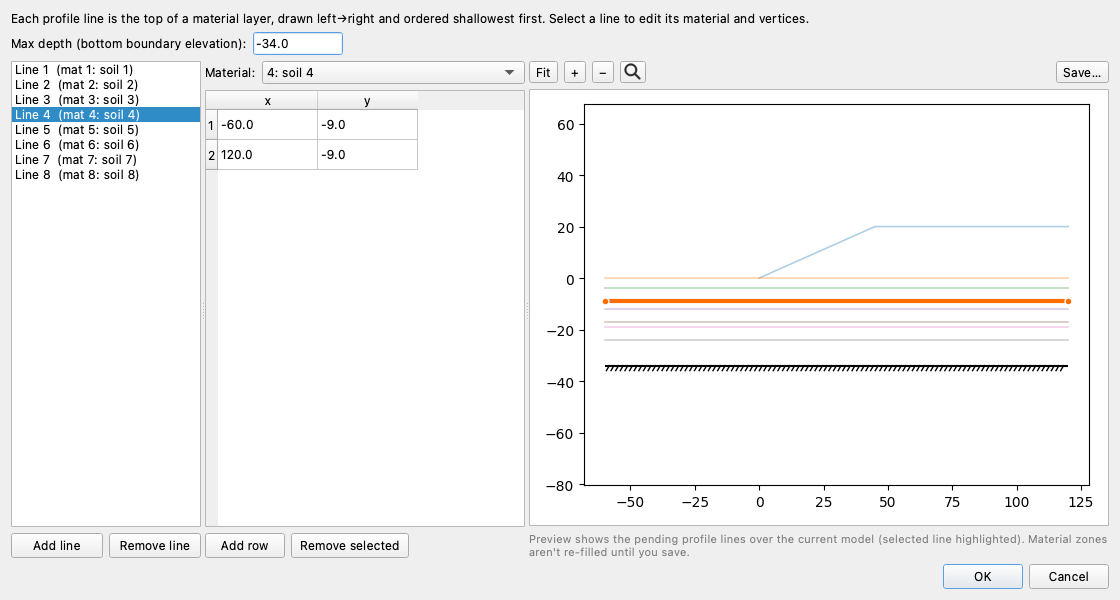
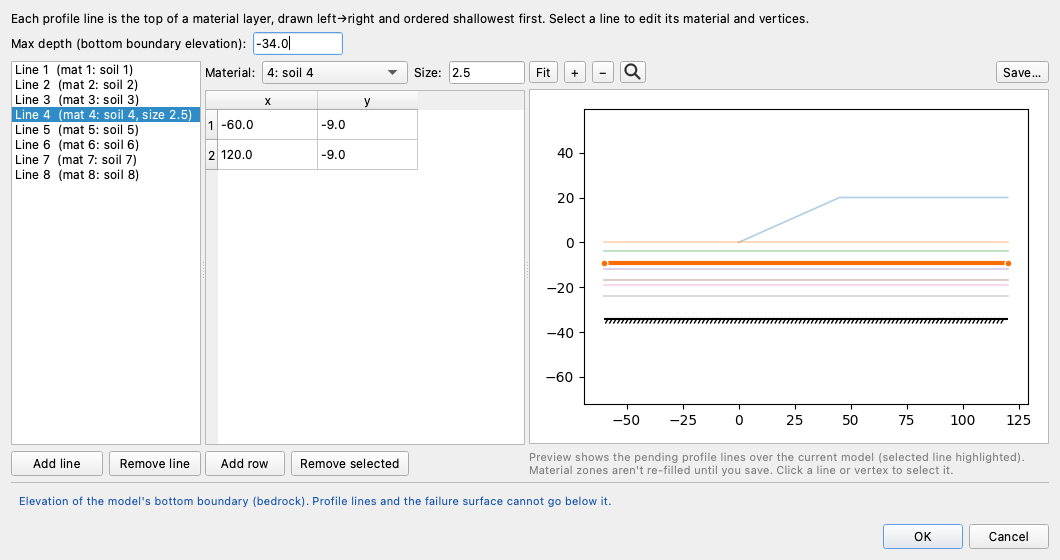
docs(studio): document the v21 input fields; generate their dialog images
The editing page covers the local mesh Size on polygons and profile lines, the
polygon Type dropdown and what each of its five words means, why a refine region
must carry a Size and where one is worth using, and the per-load Direction — normal
against vertical, identical on level ground and divergent on a slope. The analysis
page covers Side BC on the Run FEM dialog, plainly: fixed is vendor parity with
RS2, not a better model.

The dialog screenshots are added to the offscreen capture pipeline rather than
grabbed by hand, so they can be regenerated when the dialogs change. The v21 fields
are populated in memory for the shot — a Size on the levee zone, a refine region
over the grout curtain's tip, one of the embankment's two loads made vertical — so
no sample file is edited to make a picture. Five images: the polygons editor on a
material zone and again on the refine region (where Mat ID greys out), the profile
editor with a Size, the distributed-loads editor showing both directions and their
differently-drawn arrows, and the Run FEM dialog carrying Side BC.

Claude-Session: https://claude.ai/code/session_0147GB4LGVZuqGHCRMVzZTsR

diff --git a/tools/capture_studio_screenshots.py b/tools/capture_studio_screenshots.py
@@ -1,13 +1,19 @@
-"""Studio-capture pipeline: regenerate the transient-seepage Studio screenshots
-that ``docs/studio/analysis.md`` and ``docs/studio/editing.md`` embed, headlessly
+"""Studio-capture pipeline: regenerate the Studio dialog/editor screenshots that
+``docs/studio/analysis.md`` and ``docs/studio/editing.md`` embed, headlessly
 (offscreen Qt) so it needs no display and produces byte-stable, native-quality grabs.
 
 This is the same offscreen-grab practice the reliability / parametric dialog
 images were captured with: build the real Studio widget, ``.show()`` it under the
 ``offscreen`` QPA platform, let the layout settle, then ``QWidget.grab()`` the
-widget to a PNG. Nothing here touches a live display or the user's window.
+widget to a PNG. Nothing here touches a live display or the user's window. Only the
+full main-window shots are captured by hand; every dialog image is generated here.
 
-Three captures land in ``docs/studio/images/``:
+The v21 input captures — the polygon Type/Size row, the profile Size, the
+distributed-load Direction and the Run FEM Side BC — run on real sample models with
+the v21 field set IN MEMORY for the shot. The corpus files stay untouched: a
+screenshot fixture is not a reason to edit a sample model.
+
+Transient captures:
 
   * ``analysis_run_seep_transient.png`` — the Run Seepage dialog in **Transient**
     mode. Built from :class:`studio.dialogs.RunSeepDialog` with a tseep sheet present
@@ -30,7 +36,20 @@ reservoir-drawdown fixture on a coarse tri3 mesh, a handful of frames (a
 seconds-long solve) — through the real :class:`studio.runners.SeepRunner` transient
 path. The heavy solver is owned elsewhere; this stays deliberately trivial.
 
-Run:  python tools/capture_studio_screenshots.py     # regenerate all three PNGs
+v21 input captures:
+
+  * ``editing_polygon_dialog.png`` / ``editing_polygon_dialog_refine.png`` — the
+    Polygons editor on the levee model, once on a material zone carrying a local
+    mesh Size and once on the ``refine`` region, where the Type dropdown greys out
+    Mat ID and the material name.
+  * ``editing_geometry_dialog.png`` — the Profile lines editor, with a Size on the
+    selected line.
+  * ``editing_dloads_editor.png`` — the Distributed loads editor showing two loads
+    with different Directions, one normal and one vertical (the preview draws the
+    vertical one's arrows straight up).
+  * ``analysis_run_fem_dialog.png`` — the Run FEM dialog, now carrying Side BC.
+
+Run:  python tools/capture_studio_screenshots.py     # regenerate every PNG
 
 Exits 0 with a note if PySide6 is not installed (engine-only install — no Studio
 layer to capture), mirroring the transient studio smoke test.
@@ -168,9 +187,111 @@ def capture_transient_editor():
     return out
 
 
+# --------------------------------------------------------------------------- #
+# v21 input fields: polygon Type / Size, profile Size, dload Direction, Side BC
+# --------------------------------------------------------------------------- #
+# A polygon-based model (no profile sheet, so the Polygons editor is the geometry
+# editor) and a profile-based one, both small enough to read at dialog size.
+LEVEE_POLY = os.path.join(REPO_ROOT, "docs/seep/files/xslope_levee_poly.xlsx")
+LAYERS = os.path.join(REPO_ROOT, "docs/lem/files/xslope_eight_layers.xlsx")
+EMBANKMENT = os.path.join(REPO_ROOT, "docs/lem/files/xslope_simple_embankment_mods.xlsx")
+
+
+def _grab(dlg, name, settle=True):
+    """Show, settle and grab a dialog to ``docs/studio/images/<name>``."""
+    dlg.show()
+    if settle:
+        _settle()
+    out = os.path.join(OUT_DIR, name)
+    dlg.grab().save(out)
+    dlg.close()
+    return out
+
+
+def _polygon_dialog(select):
+    """The Polygons editor on the levee model, with the v21 fields populated for the
+    shot: a local mesh Size on the levee zone and a refine region over the grout
+    curtain's tip (where a real model would want finer elements). Both are set on the
+    loaded dict, never written back to the sample file."""
+    from xslope.fileio import load_slope_data
+    from studio.editors import PolygonEditor
+
+    d = load_slope_data(LEVEE_POLY)
+    d["polygons"][0]["size"] = 1.5
+    # The grout curtain's TIP — where the flow field turns hardest and a mesh most
+    # needs resolving. Straddles the curtain and the foundation on both sides, which
+    # is the case a material Size cannot express and a refine region can.
+    grout = next(p["polygon"] for p in d["polygons"]
+                 if (d["materials"][p["mat_id"]].get("name") or "") == "grout")
+    gx0, gy0, gx1, _gy1 = grout.bounds
+    pad = 3.0
+    d["refine_zones"] = [{"polygon": [(gx0 - pad, gy0), (gx1 + pad, gy0),
+                                      (gx1 + pad, gy0 + 3.5), (gx0 - pad, gy0 + 3.5)],
+                          "size": 0.6}]
+    return PolygonEditor().build(d, None, select=select)
+
+
+def capture_polygon_editor():
+    """Polygons editor on a material zone: Type 'material', Mat ID live, Size set."""
+    return _grab(_polygon_dialog(select=0), "editing_polygon_dialog.png")
+
+
+def capture_polygon_editor_refine():
+    """Polygons editor on the refine region: Mat ID and the material name greyed."""
+    dlg = _polygon_dialog(select=None)
+    dlg.list.setCurrentRow(dlg.list.count() - 1)      # the refine row, listed last
+    return _grab(dlg, "editing_polygon_dialog_refine.png")
+
+
+def capture_profile_editor():
+    """Profile lines editor with a Size on the selected line."""
+    from xslope.fileio import load_slope_data
+    from studio.editors import ProfileEditor
+
+    d = load_slope_data(LAYERS)
+    d["profile_lines"][3]["size"] = 2.5
+    return _grab(ProfileEditor().build(d, None, select=3),
+                 "editing_geometry_dialog.png")
+
+
+def capture_dloads_editor():
+    """Distributed loads editor with one normal load and one vertical."""
+    from xslope.fileio import load_slope_data
+    from studio.editors import DloadsEditor
+
+    d = load_slope_data(EMBANKMENT)
+    # Two loads on this model; make the second a gravity surcharge so the dialog
+    # shows both Directions at once and the preview shows the vertical arrows.
+    d["dload_dirs"] = ["normal", "vertical"]
+    dlg = DloadsEditor().build(d, None, select=(0, 1))
+    dlg.show()
+    _settle()
+    dlg._preview.refresh_now()
+    _settle()
+    dlg._preview.canvas._render_current()
+    _settle()
+    out = os.path.join(OUT_DIR, "editing_dloads_editor.png")
+    dlg.grab().save(out)
+    dlg.close()
+    return out
+
+
+def capture_run_fem_dialog():
+    """Run FEM dialog, carrying the v21 Side BC selector."""
+    from studio.dialogs import RunFemDialog
+
+    dlg = RunFemDialog(defaults={},
+                       material_names=["Embankment", "Foundation clay"])
+    dlg.resize(dlg.sizeHint())
+    return _grab(dlg, "analysis_run_fem_dialog.png")
+
+
 def main():
-    print("capture_studio_screenshots: regenerating transient Studio images")
-    for fn in (capture_run_dialog, capture_playbar, capture_transient_editor):
+    print("capture_studio_screenshots: regenerating Studio dialog images")
+    for fn in (capture_run_dialog, capture_playbar, capture_transient_editor,
+               capture_polygon_editor, capture_polygon_editor_refine,
+               capture_profile_editor, capture_dloads_editor,
+               capture_run_fem_dialog):
         path = fn()
         print(f"  wrote {os.path.relpath(path, REPO_ROOT)}")
     print("done")

diff --git a/docs/studio/editing.md b/docs/studio/editing.md
@@ -19,10 +19,10 @@ open its editor:
 | **Global parameters** | Unit weight of water, tension-crack depth/water, seismic coefficient, max depth. |
 | **Materials** | The material table — name, unit weight, strength option and parameters, and (by mode) hydraulic and elastic properties. |
 | **Profile lines** | The profile-line geometry (master/detail); rebuilds the ground surface and material zones. |
-| **Polygons** | Material-zone polygons (for polygon-based models). |
+| **Polygons** | Polygon regions (for polygon-based models) — material zones, SSR overlays, and mesh refinement regions. |
 | **Piezometric lines** | The two piezometric lines. |
 | **Failure surfaces** | Circles (center, radius/depth/intercept) or the non-circular surface (vertex table). |
-| **Distributed loads** | The two distributed-load sets. |
+| **Distributed loads** | The two distributed-load sets, each load with its direction. |
 | **Reinforcement** | Reinforcement lines (rebuilt into the engine's display format). |
 | **Line loads** | Concentrated line loads (force per unit width) on the ground surface. |
 | **Piles** | Pile lines. |
@@ -95,8 +95,48 @@ zones derived from them) or directly as **polygons** — never both. The Inputs 
 marks **Polygons** editable only when there are no profile lines; otherwise edit the
 **Profile lines**. Both use the same master/detail geometry dialog.
 
+**Size** is an optional local mesh size, available on every profile line and every
+polygon. Leave it blank and the region meshes at the global target size set on the
+[Build Mesh](analysis.md#building-a-mesh) dialog; enter a value and the elements inside that
+polygon, or along that line, are built to it instead. It has no effect on a
+limit-equilibrium run, which does not mesh, and it only ever refines — a value at or
+above the global size cannot make the mesh coarser there. A declared Size shows in the
+item list, so a refinement is visible without opening each polygon in turn.
+
+**Type** (polygons only) says what kind of region a polygon is. `material` — the
+default — is a soil zone. The three `ssr` types are
+[SSR overlays](analysis.md#finite-element-fem): analysis regions that constrain a
+strength-reduction run and are never meshed or sliced. `refine` is neither: it is a
+pure meshing region that carries no material and no analysis meaning, so a `refine`
+polygon must have a Size, and the dialog will not close until it does. Choosing any
+Type other than `material` greys out **Mat ID** and the material name, because an
+overlay is not a soil zone and has no material:
+
+![Polygons editor on a refine region](images/editing_polygon_dialog_refine.png)
+
+Use a refine region to resolve something the geometry does not already mark out — the
+ground beneath a footing, the zone a slip surface is expected to cross, the tip of a
+cutoff wall (above). Where a Size is what you want on a layer that already exists,
+put it on that material zone or profile line instead. Refine regions may overlap
+anything, including each other; where several apply, the smallest size wins.
+
 The remaining feature editors follow the same pattern — a table (or master/detail
 list) plus a live preview of the feature on the section.
+
+**Distributed loads** are pressures spread along a line on the ground surface. Each
+load is a left→right series of points carrying a stress, and each has its own
+**Direction**. *Normal* — the default — applies the stress perpendicular to the load's
+own line, which is what a pressure does. *Vertical* applies it straight down whatever
+the line's slope, which is what the dead weight of a surcharge does. The two are
+identical on level ground and diverge on a slope, where a normal load carries a
+horizontal thrust that a surcharge does not; the preview draws each load its own way,
+so the difference is visible while you set it:
+
+![Distributed loads editor](images/editing_dloads_editor.png)
+
+Direction belongs to the load, not to the set, so a model may mix the two, and
+deleting or re-picking loads never moves a direction onto a different load. **Set 2**
+is the second rapid-drawdown stage and works the same way.
 
 **Line loads** are concentrated forces per unit width acting at a point on the
 ground surface (a facing plate, a crane pad). Each row is a point, a magnitude

diff --git a/docs/studio/analysis.md b/docs/studio/analysis.md
@@ -369,6 +369,17 @@ the failure criterion.
 
 ![Run FEM dialog](images/analysis_run_fem_dialog.png)
 
+**Side BC** chooses what holds the left and right edges of the model. **Rollers** —
+the default, and what every model that does not say otherwise means — fixes the
+horizontal component and leaves the vertical free, so the truncated ground can still
+settle under its own weight. **Fixed** clamps both components, which is what RS2 does
+on its side boundaries. Fixed is a vendor-parity option rather than a better model: it
+adds shear restraint the real ground does not have, and stiffens a domain truncated
+close to the slope. The setting is part of how the model is restrained rather than
+part of the strength reduction, so it applies to a single trial and an SSRM alike. Like
+the other run options it is seeded from the open file (`main!D22`) and remembered for
+the session, but a choice made here is not written back into the file.
+
 For an SSRM run, the **SSR exclusions…** button opens a checkbox picker — one row per
 material zone in the model, checked (included) by default:
 
